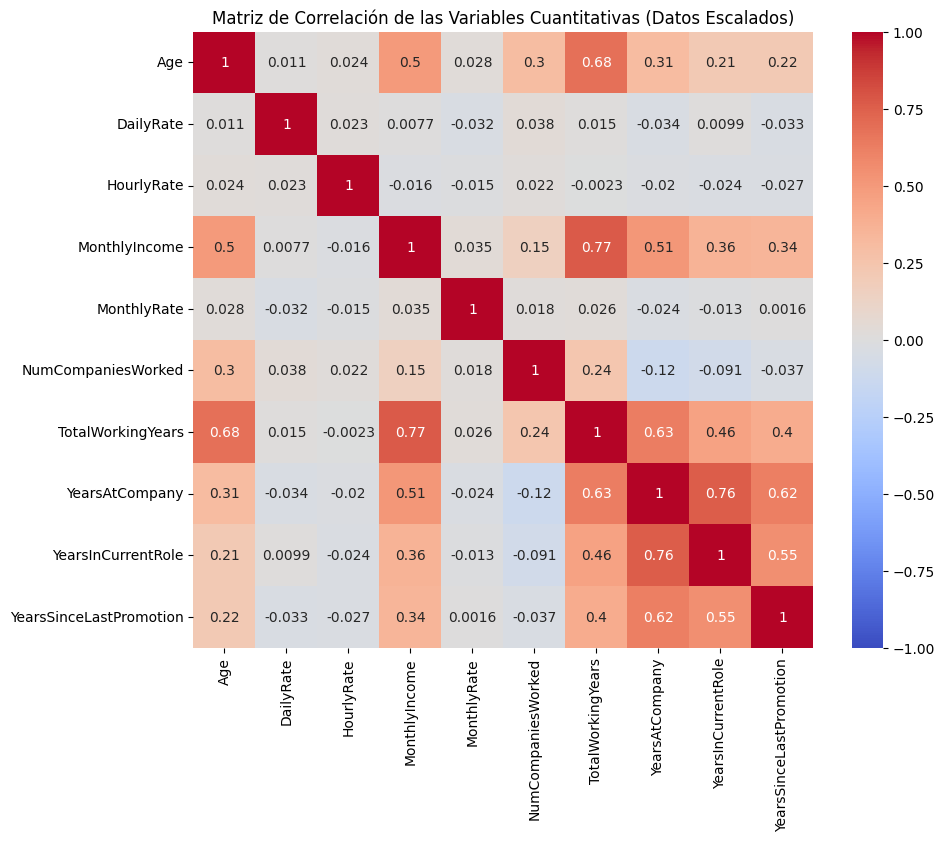
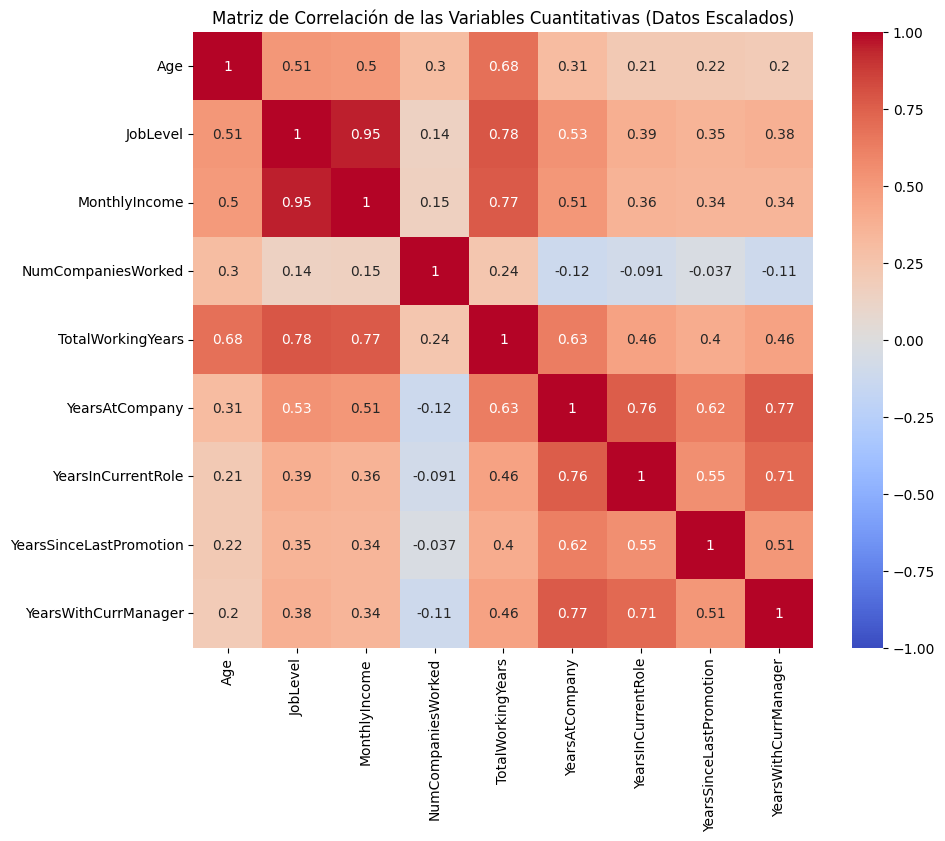
Update the attributes to take into account for the correlation

diff --git a/pca_article/docs/part2.tex b/pca_article/docs/part2.tex
@@ -15,15 +15,14 @@ Tomando en cuenta las variables que se utilizarán, esto nos muestra la transfor
 \hline
 \textbf{Variable} & \textbf{Media} \\ \hline
 Age                       & -3.504377e-17 \\ \hline
-DailyRate                  &  5.075305e-17 \\ \hline
-HourlyRate                 &  1.691768e-16 \\ \hline
-MonthlyIncome              & -4.471102e-17 \\ \hline
-MonthlyRate                &  3.021015e-17 \\ \hline
+JobLevel                  & -2.658493e-17 \\ \hline
+MonthlyIncome             & -4.471102e-17 \\ \hline
 NumCompaniesWorked         &  1.450087e-17 \\ \hline
 TotalWorkingYears          & -1.208406e-18 \\ \hline
 YearsAtCompany             & -3.021015e-17 \\ \hline
 YearsInCurrentRole         &  9.063045e-17 \\ \hline
 YearsSinceLastPromotion    &  1.208406e-18 \\ \hline
+YearsWithCurrManager      & -2.779334e-17 \\ \hline
 \end{tabular}
 \caption{Media de cada variable estandarizada}
 \end{table}
@@ -38,15 +37,14 @@ cerca de 0 (por ejemplo, entre -1e-17 y 1e-18).
 \hline
 \textbf{Variable} & \textbf{Desviación Estándar} \\ \hline
 Age                        & 1.00034 \\ \hline
-DailyRate                  & 1.00034 \\ \hline
-HourlyRate                 & 1.00034 \\ \hline
+JobLevel                   & 1.00034 \\ \hline
 MonthlyIncome              & 1.00034 \\ \hline
-MonthlyRate                & 1.00034 \\ \hline
 NumCompaniesWorked         & 1.00034 \\ \hline
 TotalWorkingYears          & 1.00034 \\ \hline
 YearsAtCompany             & 1.00034 \\ \hline
 YearsInCurrentRole         & 1.00034 \\ \hline
 YearsSinceLastPromotion    & 1.00034 \\ \hline
+YearsWithCurrManager       & 1.00034 \\ \hline
 \end{tabular}
 \caption{Desviación estándar de cada variable estandarizada}
 \end{table}
@@ -62,6 +60,6 @@ Utilizando los datos estandarizados, se procede a calcular la matriz de correlac
 \end{figure}
 
 Podemos observar que la matriz de correlación es una matriz simétrica, 
-con valores en la diagonal principal iguales a 1, aunque vemos que las variables
-DailyRate, HourlyRate, MonthlyRate y NumCompaniesWorked tienen una correlación cercana a 0
-lo que indica no hay una relación lineal fuerte entre esa una variable y otra en la matriz.
+con valores en la diagonal principal iguales a 1, aunque vemos que la variable NumCompaniesWorked 
+tienen una correlación cercana a 0 lo que indica no hay una relación lineal fuerte entre 
+esa una variable y las otras en la matriz.

diff --git a/pca_article/docs/part1.tex b/pca_article/docs/part1.tex
@@ -49,16 +49,15 @@ El dataset cuenta con 35 atributos, los cuales son:
 
 \subsection{Variables a analizar}
 De todas las variables descritas anteriormente, nosotros decidimos analizar las
-siguientes 10 variables:
+siguientes 9 variables:
 \begin{itemize}
     \item \textbf{Age:} Edad del empleado.
-    \item \textbf{DailyRate:} Salario diario.
-    \item \textbf{HourlyRate:} Salario por hora.
     \item \textbf{MonthlyIncome:} Ingreso mensual.
-    \item \textbf{MonthlyRate:} Ingreso mensual.
     \item \textbf{NumCompaniesWorked:} Número de empresas en las que ha trabajado.
     \item \textbf{TotalWorkingYears:} Años trabajados.
     \item \textbf{YearsAtCompany:} Años en la empresa.
     \item \textbf{YearsInCurrentRole:} Años en el rol actual.
     \item \textbf{YearsSinceLastPromotion:} Años desde la última promoción.
+    \item \textbf{YearsWithCurrManager:} Años con el actual jefe.
+    \item \textbf{JobLevel:} Nivel de trabajo.
 \end{itemize}
